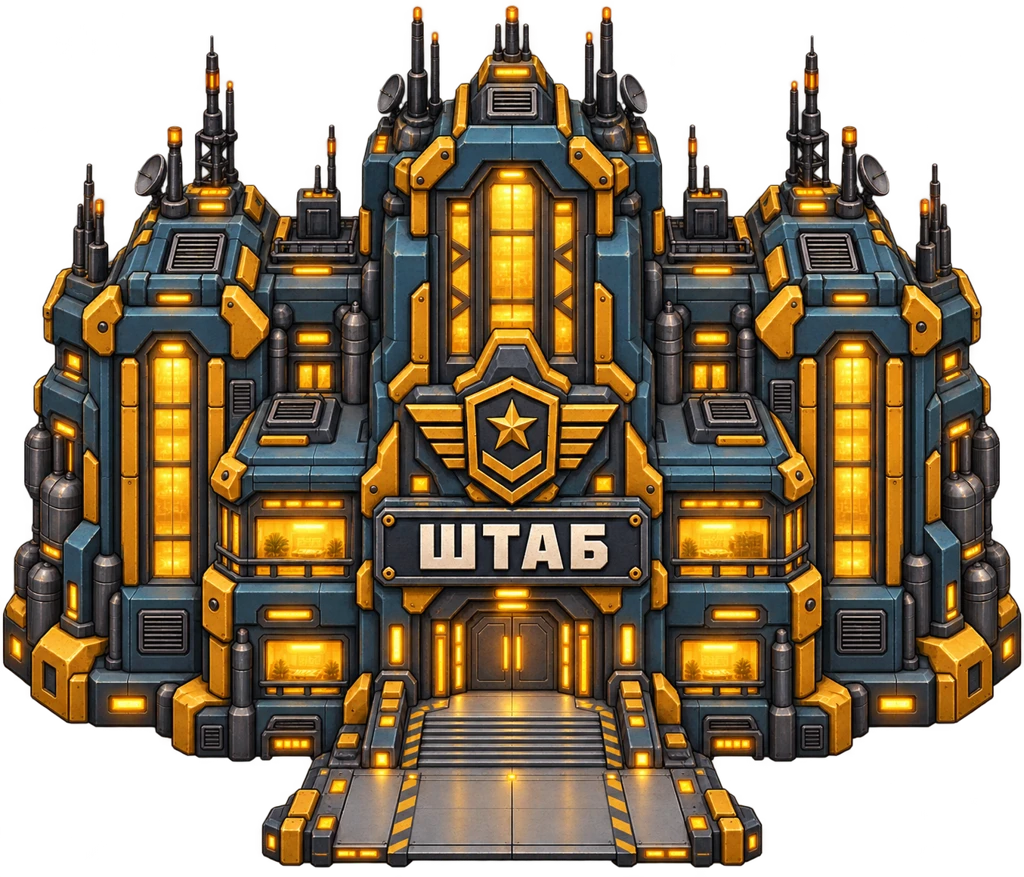
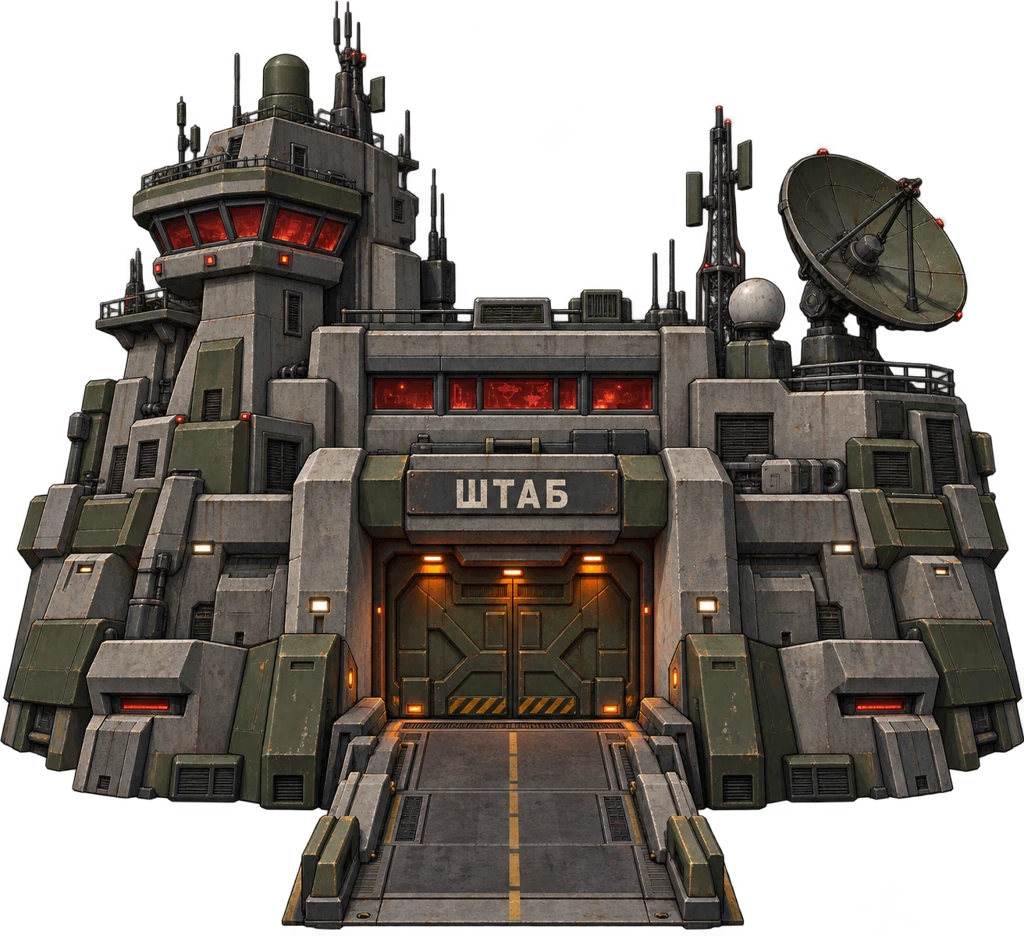
Redesign headquarters as military fortress and enclose rescue post with ten patrolling spiders

diff --git a/public/game.js b/public/game.js
@@ -1318,7 +1318,9 @@ class BaseWorld {
 
 const DEMYAN_SITE={x:35,y:31};
 const DEMYAN_ENTRANCE=[{x:32,y:29},{x:32,y:30},{x:32,y:31}];
-const DEMYAN_GUARDS=[{x:30,y:28},{x:30,y:30},{x:30,y:32},{x:28,y:29},{x:28,y:31},{x:26,y:28},{x:26,y:30},{x:26,y:32}];
+const DEMYAN_GUARDS=[{x:30,y:25},{x:34,y:25},{x:38,y:25},{x:40,y:27},{x:40,y:31},{x:40,y:36},{x:36,y:36},{x:32,y:36},{x:30,y:33},{x:30,y:29}];
+function demyanWall(x,y){return x>=32&&x<=38&&y>=27&&y<=34&&(x===32||x===38||y===27||y===34)&&!DEMYAN_ENTRANCE.some(p=>p.x===x&&p.y===y);}
+function demyanOpenCell(x,y){return (x>=33&&x<=37&&y>=28&&y<=33)||(x>=30&&x<=40&&y>=25&&y<=36&&(x<32||x>38||y<27||y>34));}
 const DEMYAN_STORIES=['demyanBrief','demyanContact','demyanEvac','demyanRescue','demyanReturn','hqReady'];
 const HQ_RECIPE={earth:100,stone:60,iron:10};
 const HQ_MS=15000;
@@ -1879,10 +1881,10 @@ class FloorWorld {
     if(!this.inside(this.x,this.y)||this.blocked(this.x,this.y)||liftGeometry(FLOOR_LIFT).colliders.some(rect=>circleHitsRect(px,py,rect))){this.x=25;this.y=7;}
   }
   inside(x,y){return x>=2&&y>=2&&x<48&&y<48;}
-  blocked(x,y){const item=this.floor===5?((x>=33&&x<=37&&y>=28&&y<=33)||DEMYAN_GUARDS.some(p=>p.x===x&&p.y===y)):this.floor===4?((x>=34&&x<=36&&y>=29&&y<=32)||BUILDER_GUARDS.some(p=>x===p.x&&y===p.y)):this.floor===3?((x===18&&y===34)||(x===36&&y===39)||[{x:25,y:12},{x:13,y:24},{x:38,y:24},{x:19,y:33},{x:35,y:38}].some(p=>Math.abs(x-p.x)<=1&&Math.abs(y-p.y)<=1)):this.floor===2?((x===17&&y===27)||(x===36&&y===35)):((x===18&&y===20)||(x===32&&y===29));return this.inside(x,y)&&!item&&!(x>=22&&x<=28&&y>=4&&y<=11)&&!this.cleared.has(y*BASE_SIZE+x);}
+  blocked(x,y){if(this.floor===5&&demyanWall(x,y))return true;const item=this.floor===5?demyanOpenCell(x,y):this.floor===4?((x>=34&&x<=36&&y>=29&&y<=32)||BUILDER_GUARDS.some(p=>x===p.x&&y===p.y)):this.floor===3?((x===18&&y===34)||(x===36&&y===39)||[{x:25,y:12},{x:13,y:24},{x:38,y:24},{x:19,y:33},{x:35,y:38}].some(p=>Math.abs(x-p.x)<=1&&Math.abs(y-p.y)<=1)):this.floor===2?((x===17&&y===27)||(x===36&&y===35)):((x===18&&y===20)||(x===32&&y===29));return this.inside(x,y)&&!item&&!(x>=22&&x<=28&&y>=4&&y<=11)&&!this.cleared.has(y*BASE_SIZE+x);}
   material(x,y){return this.materialOverrides.get(y*BASE_SIZE+x)||depositMaterial(this.materialSeed,this.floor,x,y);}
-  hardness(x,y){return this.material(x,y)==='earth'?1:2.5;}
-  drill(x,y,amount){if(!this.blocked(x,y))return false;const key=y*BASE_SIZE+x,next=(this.damage.get(key)||0)+amount/this.hardness(x,y);if(next>=1){this.cleared.add(key);this.damage.delete(key);return true;}this.damage.set(key,next);return false;}
+  hardness(x,y){if(this.floor===5&&demyanWall(x,y))return Infinity;return this.material(x,y)==='earth'?1:2.5;}
+  drill(x,y,amount){if(!Number.isFinite(this.hardness(x,y))||!this.blocked(x,y))return false;const key=y*BASE_SIZE+x,next=(this.damage.get(key)||0)+amount/this.hardness(x,y);if(next>=1){this.cleared.add(key);this.damage.delete(key);return true;}this.damage.set(key,next);return false;}
   canRescue(){return false;}
   snapshot(){return {location:'floor',floor:this.floor,materialSeed:this.materialSeed,materialGeneration:2,materialOverrides:[...this.materialOverrides],x:this.x,y:this.y,cleared:[...this.cleared],damage:[...this.damage]};}
 }
@@ -1972,12 +1974,12 @@ const STORY_LINES = {
     {speaker:'Серёга Т',text:'Демьян? Это ты?'},
     {speaker:'Демьян П.',text:'Тимофеич? Живой, значит. Хорошо. Сколько вас?'},
     {speaker:'Серёга Т',text:'Теперь несколько. Есть бур. Карта пятого этажа сохранилась — сейчас передам пилоту.'},
-    {speaker:'Демьян П.',text:'Тогда слушайте внимательно. Со мной трое. Есть раненые. Основной проход держу я. Пробейте боковой — с запада от поста.'}
+    {speaker:'Демьян П.',text:'Слушайте внимательно. Со мной трое, есть раненые. Мы внутри ограждения: стены усилены, бур их не возьмёт. Единственный вход слева, с запада — три разрушаемых блока. Они будут подсвечены. Вокруг патрулируют десять пауков. Уничтожь всех десятерых и разбей эти три блока, затем подай бур к проходу.'}
   ],
   demyanContact:[
-    {speaker:'Демьян П.',text:'Бур, вижу тебя! Западная стена — три пласта у входа. Убери завал, там обойдёшь их.'},
+    {speaker:'Демьян П.',text:'Бур, вижу тебя! Слева три подсвеченных блока — это единственный вход. Остальное ограждение нерушимое. Вокруг десять пауков: перебей всех и разбей три блока. Пока проход не открыт и хотя бы один паук жив, люди остаются внутри.'},
     {speaker:'Герой',text:'Долго здесь держишься?'},
-    {speaker:'Демьян П.',text:'Потом поговорим. За мной люди. Зачисти подходы и подай бур к проходу.'}
+    {speaker:'Демьян П.',text:'Потом поговорим. За мной люди. Уничтожь всех десятерых, открой проход и подай бур к нему. Сначала вывезем людей.'}
   ],
   demyanEvac:[
     {speaker:'Герой',text:'Проход открыт. Выходи!'},
@@ -1995,7 +1997,7 @@ const STORY_LINES = {
     {speaker:'Герой',text:'Думаешь, наверху можно жить?'},
     {speaker:'Демьян П.',text:'Думаю, пора это проверить. Только с пустыми руками мы туда не выйдем.'},
     {speaker:'Демьян П.',text:'Собери архитектора и Серёгу. Начнём со штаба — нужно понять, что у нас осталось и как добраться до верхних ворот.'},
-    {speaker:'Строительный мастер',text:'Чертёж штаба есть. Выбирай площадку пять на пять, расчищай и привози материалы. За стройку отвечаю я.'}
+    {speaker:'Строительный мастер',text:'Чертёж штаба есть. Выбирай площадку девять на восемь, расчищай и привози материалы. За стройку отвечаю я.'}
   ],
   hqReady:[
     {speaker:'Строительный мастер',text:'Штаб готов. Связь проверили, вход свободен. Демьян, принимай.'},
@@ -2376,7 +2378,7 @@ function queueRepairBrief(q,armory){
 const SPIDER_DIG_POWER=.5; // Temporary digging balance: soil takes two seconds.
 const SPIDER_WALK_COST=CELL/75;
 function spiderHardSolids(world,solid) {
- const hard=(x,y)=>solid(x,y)&&!world.blocked(x,y);
+ const hard=(x,y)=>solid(x,y)&&(!world.blocked(x,y)||!Number.isFinite(world.hardness?.(x,y)??1));
  hard.rectangles=solid.rectangles||[];return hard;
 }
 class TunnelHeap {
@@ -2491,7 +2493,7 @@ function moveEnemy(spider,target,dt,solid,speed=75) {
  }
  spider.angle=Math.atan2(dy,dx)*180/Math.PI+90;
 }
-function stepSpider(spider,rig,delta,solid,{tutorial=false,finite=false,safe=false,world=null,onDig=null}={}) {
+function stepSpider(spider,rig,delta,solid,{tutorial=false,finite=false,safe=false,world=null,onDig=null,patrol=null}={}) {
  const ms=Math.max(0,Math.min(delta,50)),dt=ms/1000;spider.digging=false;
  if(spider.hp<=0){
   if(tutorial||finite)return 0;
@@ -2503,7 +2505,16 @@ function stepSpider(spider,rig,delta,solid,{tutorial=false,finite=false,safe=fal
  }
  spider.bite=Math.max(0,spider.bite-ms);
  const distance=Math.hypot(rig.x-spider.x,rig.y-spider.y);
- if(!tutorial&&distance>SPIDER_AGGRO)return 0;
+ if(!tutorial&&distance>SPIDER_AGGRO){
+  if(patrol?.length){
+   if(!spider.patrolling){spider.path=[];spider.pathTime=0;}spider.patrolling=true;
+   if(!Number.isInteger(spider.patrolIndex))spider.patrolIndex=(spider.id+1)%patrol.length;
+   let target=center(patrol[spider.patrolIndex]);if(Math.hypot(target.x-spider.x,target.y-spider.y)<8){spider.patrolIndex=(spider.patrolIndex+1)%patrol.length;target=center(patrol[spider.patrolIndex]);spider.pathTime=0;}
+   if(clearWalk(spider,target,solid))moveEnemy(spider,target,dt,solid,55);
+   else{spider.pathTime-=ms;if(spider.pathTime<=0){spider.path=findPath(spider,target,solid);spider.pathTime=600;}while(spider.path?.length&&Math.hypot(spider.path[0].x-spider.x,spider.path[0].y-spider.y)<5)spider.path.shift();if(spider.path?.length)moveEnemy(spider,spider.path[0],dt,solid,55);}
+  }return 0;
+ }
+ if(spider.patrolling){spider.path=[];spider.pathTime=0;spider.patrolling=false;}
  if(safe)return 0;
  if(distance<=48&&clearShot(spider,rig,solid)){
   if(spider.bite===0){spider.bite=1000;return 1;}
@@ -2660,6 +2671,7 @@ const combatMethods={
   const texture=this.textures.get('spider'),source=texture.getSourceImage();
   for(let i=0;i<4;i++)if(!texture.has('walk-'+i))texture.add('walk-'+i,0,i*source.width/4,0,source.width/4,source.height);
   this.spiders=this.floorNumber===5?DEMYAN_GUARDS.map((site,id)=>restoreSpider(this.campaign.combat?.floor5?.find(s=>s.id===id),site,id)):this.floorNumber===4?BUILDER_GUARDS.map((site,id)=>restoreSpider(this.campaign.combat?.floor4?.find(s=>s.id===id),site,id)):this.floorNumber===3?createFloorSpiders(this.campaign.combat?.floor3):[];
+  if(this.floorNumber===5)for(const s of this.spiders)if(this.world.blocked(Math.floor(s.x/CELL),Math.floor(s.y/CELL))){s.x=s.homeX;s.y=s.homeY;}
   this.spiderViews=[];this.allies=[];this.combatShots=[];this.weaponCooldown=Number.isFinite(this.campaign.combat?.cooldown)?Math.max(0,Math.min(1000,this.campaign.combat.cooldown)):0;
   this.combatTime=0;this.combatReady=true;
   if(this.floorNumber===3||this.floorNumber===4||this.floorNumber===5)this.createSpiderViews();
@@ -2719,7 +2731,7 @@ const combatMethods={
   for(const s of this.spiders){
    // Base enemies belong only to the finite tutorial wave, never to floor respawns.
    if(!this.floorNumber&&!tutorial)continue;
-   const damage=stepSpider(s,this.rig,ms,solid,{tutorial,finite:this.floorNumber===4||this.floorNumber===5,safe,world:this.world,onDig:(x,y,broken,spider)=>this.showMonsterDig(x,y,broken,spider)});
+   const damage=stepSpider(s,this.rig,ms,solid,{tutorial,finite:this.floorNumber===4||this.floorNumber===5,safe,patrol:this.floorNumber===5?DEMYAN_GUARDS:null,world:this.world,onDig:(x,y,broken,spider)=>this.showMonsterDig(x,y,broken,spider)});
    if(damage){
     this.hull=Math.max(tutorial?1:0,this.hull-damage*(1-(this.collectionBuffs?.defense||0)));
     const indicator=document.querySelector('#combat-hull');indicator?.classList.add('hull-hit');this.time.delayedCall(180,()=>indicator?.classList.remove('hull-hit'));
@@ -3236,7 +3248,8 @@ const demyanMethods={
   if(this.floorNumber===5){
    const x=(DEMYAN_SITE.x+.5)*CELL,y=(DEMYAN_SITE.y+.5)*CELL,g=this.demyanArt;
    g.fillStyle(0x243c3b);g.fillRoundedRect(33*CELL,28*CELL,5*CELL,6*CELL,10);g.lineStyle(3,0x526860);g.strokeRect(33*CELL+8,28*CELL+8,5*CELL-16,6*CELL-16);
-   // The west side is the cleared-by-player rescue route; ruins are visual, not invisible walls.
+   // Reinforced enclosure is actual indestructible terrain, with one three-block west entrance.
+   for(let cy=27;cy<=34;cy++)for(let cx=32;cx<=38;cx++)if(demyanWall(cx,cy)){const bx=cx*CELL,by=cy*CELL;g.fillStyle(0x202e31);g.fillRect(bx,by,CELL,CELL);g.fillStyle(0x6b7775);g.fillRoundedRect(bx+3,by+3,CELL-6,CELL-9,4);g.lineStyle(3,0x9aa79e);g.strokeRect(bx+5,by+5,CELL-10,CELL-13);g.lineStyle(5,0x394b4e);g.lineBetween(bx+10,by+12,bx+CELL-10,by+CELL-15);g.lineBetween(bx+CELL-10,by+12,bx+10,by+CELL-15);}
    for(let i=0;i<7;i++){g.fillStyle(i%2?0x735746:0x8b7757);g.fillRoundedRect(33*CELL+16+i*37,32*CELL+28+(i%2)*8,32,26,4);}
    for(let i=0;i<35;i++){g.fillStyle(0xc39b50);g.fillRect(x-90+(i*47)%180,y-20+(i*29)%65,6,3);}
    g.fillStyle(0x19302e);g.fillRoundedRect(35*CELL,28*CELL+12,110,48,6);g.fillStyle(0x81b989);g.fillRect(35*CELL+14,28*CELL+22,70,22);
@@ -3307,7 +3320,7 @@ const demyanMethods={
   const q=this.demyanQuest;if(!q?.briefed||this.floorNumber&&this.floorNumber!==5)return;
   const name=document.querySelector('#quest-name'),radio=document.querySelector('#radio-text'),status=document.querySelector('#quest-status');
   name.textContent=q.returned?(q.hq?'Выход на поверхность':'Построить штаб'):'Последний рубеж';
-  if(this.floorNumber===5){radio.textContent=q.rescued?'Демьян и люди на борту. Вернись на базу.':q.evacuating?'Сначала люди. Демьян отходит последним. Подожди рядом с проходом.':'Демьян удерживает командный пост. Пробей боковой проход и уничтожь нападающих.';status.textContent=q.rescued?'Лифт · '+objectiveBearing(this.rig,FLOOR_LIFT):'Проход '+DEMYAN_ENTRANCE.filter(p=>!this.world.blocked(p.x,p.y)).length+'/3 · Пауки '+(this.spiders||[]).filter(s=>s.hp<=0).length+'/'+DEMYAN_GUARDS.length+' · Люди '+q.evacuated+'/3 · '+objectiveBearing(this.rig,DEMYAN_SITE);}
+  if(this.floorNumber===5){radio.textContent=q.rescued?'Демьян и люди на борту. Вернись на базу.':q.evacuating?'Сначала люди. Демьян отходит последним. Подожди рядом с проходом.':'Демьян удерживает командный пост. Разбей 3 подсвеченных блока слева и уничтожь всех 10 патрулирующих пауков.';status.textContent=q.rescued?'Лифт · '+objectiveBearing(this.rig,FLOOR_LIFT):'Проход '+DEMYAN_ENTRANCE.filter(p=>!this.world.blocked(p.x,p.y)).length+'/3 · Пауки '+(this.spiders||[]).filter(s=>s.hp<=0).length+'/'+DEMYAN_GUARDS.length+' · Люди '+q.evacuated+'/3 · '+objectiveBearing(this.rig,DEMYAN_SITE);}
   else{radio.textContent=q.returned?'Демьян П.: '+(q.hq?'Готовим экспедицию к верхним воротам. Сведения о поверхности ещё предстоит проверить.':'Нужен штаб. Получи чертёж у архитектора, выбери и расчисти площадку 9×8.'): 'Один человек несколько часов удерживает командный пост на пятом этаже. Серёга узнал Демьяна.';status.textContent=q.remaining!=null?'Строительство штаба · '+Math.ceil(q.remaining/1000)+' с':q.hq?'Штаб работает · Руководитель: Демьян П. · Спасены 3 человека':q.returned?'Дом архитектора · Штаб 9×8 · '+Object.entries(HQ_RECIPE).map(([id,n])=>(MATERIALS.find(m=>m.id===id)?.name||id)+' '+n).join(' · '):'Получена карта пятого этажа';}
  },
  headquartersError(q=this.demyanQuest){const geom=demyanGeometry(q);if(!geom)return 'Выбери место для штаба';const others=this.occupiedBuildingGeometries().filter(g=>g.kind!=='hq');const error=validateBuildingMove('hq',geom,this.world,others,this.rig);if(error)return error;const f=geom.footprint,buffer={x:f.x-2*CELL,y:f.y-2*CELL,width:f.width+4*CELL,height:f.height+4*CELL};if([...others.map(g=>g.footprint),ARCHITECT_FOOTPRINT].some(f=>rectanglesOverlap(buffer,f)))return 'Оставь проход шириной две клетки между зданиями';return null;},
@@ -4052,7 +4065,7 @@ class Base extends globalThis.Phaser.Scene {
     if(time-this.lastSave>1000)this.persist();
   }
   drawLiftGlow(time) {
-    this.blockGlow.clear();if(this.floorNumber||!this.world.rescued)return;
+    this.blockGlow.clear();if(this.floorNumber===5&&!this.demyanQuest.rescued){const pulse=.55+.25*Math.sin(time*.004);for(const p of DEMYAN_ENTRANCE)if(this.world.blocked(p.x,p.y)){this.blockGlow.fillStyle(0xffd66c,.18);this.blockGlow.fillRect(p.x*CELL,p.y*CELL,CELL,CELL);this.blockGlow.lineStyle(4,0xffe28b,pulse);this.blockGlow.strokeRect(p.x*CELL+3,p.y*CELL+3,CELL-6,CELL-6);}return;}if(this.floorNumber||!this.world.rescued)return;
     const blocks=this.repairQuest?.returnBriefed&&!this.repairQuest.ready?REPAIR_BLOCKS:this.armoryQuest?.returnBriefed&&!this.armoryQuest.ready?ARMORY_BLOCKS:this.workshopQuest?.returnBriefed&&!this.workshopQuest.ready?WORKSHOP_BLOCKS:this.liftReady()?(this.world.porodnikBriefed&&!this.world.porodnikPowered?PORODNIK_BLOCKS:[]):LIFT_BLOCKS;
     const pulse=.35+.15*Math.sin(time*.0035);
     for(const p of blocks)if(this.world.blocked(p.x,p.y)) {
@@ -4087,6 +4100,7 @@ class Base extends globalThis.Phaser.Scene {
     if(!this.floorNumber&&x===RESCUE.x&&y===RESCUE.y&&!this.world.rescued){this.refreshHUD();return;}
     if(this.world.blocked(x,y)) {
       this.cutting=true;
+      if(!Number.isFinite(this.world.hardness?.(x,y)??1)){this.sparkEmitter.emitParticleAt(middle(x),middle(y),2);return;}
       const key=y*BASE_SIZE+x;
       const material=this.world.material?.(x,y)||'earth';
       const broken=this.world.drill(x,y,dt*(1+this.workshopQuest.upgrades*.02+(this.collectionBuffs?.drill||0)));

diff --git a/src/demyan-scene.js b/src/demyan-scene.js
@@ -1,6 +1,6 @@
 import { readSettings } from './storage.js';
 import { ARCHITECT_FOOTPRINT } from './construction-state.js';
-import { DEMYAN_SITE, DEMYAN_ENTRANCE, DEMYAN_GUARDS, HQ_RECIPE, HQ_WIDTH, HQ_HEIGHT, demyanGeometry, canEvacuateDemyan, beginHeadquarters, stepHeadquarters } from './demyan-state.js';
+import { DEMYAN_SITE, DEMYAN_ENTRANCE, DEMYAN_GUARDS, demyanWall, HQ_RECIPE, HQ_WIDTH, HQ_HEIGHT, demyanGeometry, canEvacuateDemyan, beginHeadquarters, stepHeadquarters } from './demyan-state.js';
 import { CELL } from './base-state.js';
 import { makePerson, updatePerson } from './people-view.js';
 import { nearestTarget, findPath, moveEnemy } from './combat-state.js';
@@ -21,7 +21,8 @@ export const demyanMethods={
   if(this.floorNumber===5){
    const x=(DEMYAN_SITE.x+.5)*CELL,y=(DEMYAN_SITE.y+.5)*CELL,g=this.demyanArt;
    g.fillStyle(0x243c3b);g.fillRoundedRect(33*CELL,28*CELL,5*CELL,6*CELL,10);g.lineStyle(3,0x526860);g.strokeRect(33*CELL+8,28*CELL+8,5*CELL-16,6*CELL-16);
-   // The west side is the cleared-by-player rescue route; ruins are visual, not invisible walls.
+   // Reinforced enclosure is actual indestructible terrain, with one three-block west entrance.
+   for(let cy=27;cy<=34;cy++)for(let cx=32;cx<=38;cx++)if(demyanWall(cx,cy)){const bx=cx*CELL,by=cy*CELL;g.fillStyle(0x202e31);g.fillRect(bx,by,CELL,CELL);g.fillStyle(0x6b7775);g.fillRoundedRect(bx+3,by+3,CELL-6,CELL-9,4);g.lineStyle(3,0x9aa79e);g.strokeRect(bx+5,by+5,CELL-10,CELL-13);g.lineStyle(5,0x394b4e);g.lineBetween(bx+10,by+12,bx+CELL-10,by+CELL-15);g.lineBetween(bx+CELL-10,by+12,bx+10,by+CELL-15);}
    for(let i=0;i<7;i++){g.fillStyle(i%2?0x735746:0x8b7757);g.fillRoundedRect(33*CELL+16+i*37,32*CELL+28+(i%2)*8,32,26,4);}
    for(let i=0;i<35;i++){g.fillStyle(0xc39b50);g.fillRect(x-90+(i*47)%180,y-20+(i*29)%65,6,3);}
    g.fillStyle(0x19302e);g.fillRoundedRect(35*CELL,28*CELL+12,110,48,6);g.fillStyle(0x81b989);g.fillRect(35*CELL+14,28*CELL+22,70,22);
@@ -92,7 +93,7 @@ export const demyanMethods={
   const q=this.demyanQuest;if(!q?.briefed||this.floorNumber&&this.floorNumber!==5)return;
   const name=document.querySelector('#quest-name'),radio=document.querySelector('#radio-text'),status=document.querySelector('#quest-status');
   name.textContent=q.returned?(q.hq?'Выход на поверхность':'Построить штаб'):'Последний рубеж';
-  if(this.floorNumber===5){radio.textContent=q.rescued?'Демьян и люди на борту. Вернись на базу.':q.evacuating?'Сначала люди. Демьян отходит последним. Подожди рядом с проходом.':'Демьян удерживает командный пост. Пробей боковой проход и уничтожь нападающих.';status.textContent=q.rescued?'Лифт · '+objectiveBearing(this.rig,FLOOR_LIFT):'Проход '+DEMYAN_ENTRANCE.filter(p=>!this.world.blocked(p.x,p.y)).length+'/3 · Пауки '+(this.spiders||[]).filter(s=>s.hp<=0).length+'/'+DEMYAN_GUARDS.length+' · Люди '+q.evacuated+'/3 · '+objectiveBearing(this.rig,DEMYAN_SITE);}
+  if(this.floorNumber===5){radio.textContent=q.rescued?'Демьян и люди на борту. Вернись на базу.':q.evacuating?'Сначала люди. Демьян отходит последним. Подожди рядом с проходом.':'Демьян удерживает командный пост. Разбей 3 подсвеченных блока слева и уничтожь всех 10 патрулирующих пауков.';status.textContent=q.rescued?'Лифт · '+objectiveBearing(this.rig,FLOOR_LIFT):'Проход '+DEMYAN_ENTRANCE.filter(p=>!this.world.blocked(p.x,p.y)).length+'/3 · Пауки '+(this.spiders||[]).filter(s=>s.hp<=0).length+'/'+DEMYAN_GUARDS.length+' · Люди '+q.evacuated+'/3 · '+objectiveBearing(this.rig,DEMYAN_SITE);}
   else{radio.textContent=q.returned?'Демьян П.: '+(q.hq?'Готовим экспедицию к верхним воротам. Сведения о поверхности ещё предстоит проверить.':'Нужен штаб. Получи чертёж у архитектора, выбери и расчисти площадку 9×8.'): 'Один человек несколько часов удерживает командный пост на пятом этаже. Серёга узнал Демьяна.';status.textContent=q.remaining!=null?'Строительство штаба · '+Math.ceil(q.remaining/1000)+' с':q.hq?'Штаб работает · Руководитель: Демьян П. · Спасены 3 человека':q.returned?'Дом архитектора · Штаб 9×8 · '+Object.entries(HQ_RECIPE).map(([id,n])=>(MATERIALS.find(m=>m.id===id)?.name||id)+' '+n).join(' · '):'Получена карта пятого этажа';}
  },
  headquartersError(q=this.demyanQuest){const geom=demyanGeometry(q);if(!geom)return 'Выбери место для штаба';const others=this.occupiedBuildingGeometries().filter(g=>g.kind!=='hq');const error=validateBuildingMove('hq',geom,this.world,others,this.rig);if(error)return error;const f=geom.footprint,buffer={x:f.x-2*CELL,y:f.y-2*CELL,width:f.width+4*CELL,height:f.height+4*CELL};if([...others.map(g=>g.footprint),ARCHITECT_FOOTPRINT].some(f=>rectanglesOverlap(buffer,f)))return 'Оставь проход шириной две клетки между зданиями';return null;},

diff --git a/src/story-content.js b/src/story-content.js
@@ -7,12 +7,12 @@ export const STORY_LINES = {
     {speaker:'Серёга Т',text:'Демьян? Это ты?'},
     {speaker:'Демьян П.',text:'Тимофеич? Живой, значит. Хорошо. Сколько вас?'},
     {speaker:'Серёга Т',text:'Теперь несколько. Есть бур. Карта пятого этажа сохранилась — сейчас передам пилоту.'},
-    {speaker:'Демьян П.',text:'Тогда слушайте внимательно. Со мной трое. Есть раненые. Основной проход держу я. Пробейте боковой — с запада от поста.'}
+    {speaker:'Демьян П.',text:'Слушайте внимательно. Со мной трое, есть раненые. Мы внутри ограждения: стены усилены, бур их не возьмёт. Единственный вход слева, с запада — три разрушаемых блока. Они будут подсвечены. Вокруг патрулируют десять пауков. Уничтожь всех десятерых и разбей эти три блока, затем подай бур к проходу.'}
   ],
   demyanContact:[
-    {speaker:'Демьян П.',text:'Бур, вижу тебя! Западная стена — три пласта у входа. Убери завал, там обойдёшь их.'},
+    {speaker:'Демьян П.',text:'Бур, вижу тебя! Слева три подсвеченных блока — это единственный вход. Остальное ограждение нерушимое. Вокруг десять пауков: перебей всех и разбей три блока. Пока проход не открыт и хотя бы один паук жив, люди остаются внутри.'},
     {speaker:'Герой',text:'Долго здесь держишься?'},
-    {speaker:'Демьян П.',text:'Потом поговорим. За мной люди. Зачисти подходы и подай бур к проходу.'}
+    {speaker:'Демьян П.',text:'Потом поговорим. За мной люди. Уничтожь всех десятерых, открой проход и подай бур к нему. Сначала вывезем людей.'}
   ],
   demyanEvac:[
     {speaker:'Герой',text:'Проход открыт. Выходи!'},
@@ -30,7 +30,7 @@ export const STORY_LINES = {
     {speaker:'Герой',text:'Думаешь, наверху можно жить?'},
     {speaker:'Демьян П.',text:'Думаю, пора это проверить. Только с пустыми руками мы туда не выйдем.'},
     {speaker:'Демьян П.',text:'Собери архитектора и Серёгу. Начнём со штаба — нужно понять, что у нас осталось и как добраться до верхних ворот.'},
-    {speaker:'Строительный мастер',text:'Чертёж штаба есть. Выбирай площадку пять на пять, расчищай и привози материалы. За стройку отвечаю я.'}
+    {speaker:'Строительный мастер',text:'Чертёж штаба есть. Выбирай площадку девять на восемь, расчищай и привози материалы. За стройку отвечаю я.'}
   ],
   hqReady:[
     {speaker:'Строительный мастер',text:'Штаб готов. Связь проверили, вход свободен. Демьян, принимай.'},

diff --git a/src/lift-state.js b/src/lift-state.js
@@ -1,4 +1,4 @@
-import { DEMYAN_GUARDS } from './demyan-state.js';
+import { demyanWall, demyanOpenCell } from './demyan-state.js';
 import { BUILDER_SITE, BUILDER_GUARDS } from './construction-state.js';
 import { createMaterialSeed, validMaterialSeed, depositMaterial, legacyDepositMaterial, restoreMaterialOverrides } from './deposits.js';
 import { circleHitsRect } from './drive-controller.js';
@@ -63,10 +63,10 @@ export class FloorWorld {
     if(!this.inside(this.x,this.y)||this.blocked(this.x,this.y)||liftGeometry(FLOOR_LIFT).colliders.some(rect=>circleHitsRect(px,py,rect))){this.x=25;this.y=7;}
   }
   inside(x,y){return x>=2&&y>=2&&x<48&&y<48;}
-  blocked(x,y){const item=this.floor===5?((x>=33&&x<=37&&y>=28&&y<=33)||DEMYAN_GUARDS.some(p=>p.x===x&&p.y===y)):this.floor===4?((x>=34&&x<=36&&y>=29&&y<=32)||BUILDER_GUARDS.some(p=>x===p.x&&y===p.y)):this.floor===3?((x===18&&y===34)||(x===36&&y===39)||[{x:25,y:12},{x:13,y:24},{x:38,y:24},{x:19,y:33},{x:35,y:38}].some(p=>Math.abs(x-p.x)<=1&&Math.abs(y-p.y)<=1)):this.floor===2?((x===17&&y===27)||(x===36&&y===35)):((x===18&&y===20)||(x===32&&y===29));return this.inside(x,y)&&!item&&!(x>=22&&x<=28&&y>=4&&y<=11)&&!this.cleared.has(y*BASE_SIZE+x);}
+  blocked(x,y){if(this.floor===5&&demyanWall(x,y))return true;const item=this.floor===5?demyanOpenCell(x,y):this.floor===4?((x>=34&&x<=36&&y>=29&&y<=32)||BUILDER_GUARDS.some(p=>x===p.x&&y===p.y)):this.floor===3?((x===18&&y===34)||(x===36&&y===39)||[{x:25,y:12},{x:13,y:24},{x:38,y:24},{x:19,y:33},{x:35,y:38}].some(p=>Math.abs(x-p.x)<=1&&Math.abs(y-p.y)<=1)):this.floor===2?((x===17&&y===27)||(x===36&&y===35)):((x===18&&y===20)||(x===32&&y===29));return this.inside(x,y)&&!item&&!(x>=22&&x<=28&&y>=4&&y<=11)&&!this.cleared.has(y*BASE_SIZE+x);}
   material(x,y){return this.materialOverrides.get(y*BASE_SIZE+x)||depositMaterial(this.materialSeed,this.floor,x,y);}
-  hardness(x,y){return this.material(x,y)==='earth'?1:2.5;}
-  drill(x,y,amount){if(!this.blocked(x,y))return false;const key=y*BASE_SIZE+x,next=(this.damage.get(key)||0)+amount/this.hardness(x,y);if(next>=1){this.cleared.add(key);this.damage.delete(key);return true;}this.damage.set(key,next);return false;}
+  hardness(x,y){if(this.floor===5&&demyanWall(x,y))return Infinity;return this.material(x,y)==='earth'?1:2.5;}
+  drill(x,y,amount){if(!Number.isFinite(this.hardness(x,y))||!this.blocked(x,y))return false;const key=y*BASE_SIZE+x,next=(this.damage.get(key)||0)+amount/this.hardness(x,y);if(next>=1){this.cleared.add(key);this.damage.delete(key);return true;}this.damage.set(key,next);return false;}
   canRescue(){return false;}
   snapshot(){return {location:'floor',floor:this.floor,materialSeed:this.materialSeed,materialGeneration:2,materialOverrides:[...this.materialOverrides],x:this.x,y:this.y,cleared:[...this.cleared],damage:[...this.damage]};}
 }

diff --git a/tests/demyan-enclosure.test.js b/tests/demyan-enclosure.test.js
@@ -1,0 +1,25 @@
+import test from 'node:test';
+import assert from 'node:assert/strict';
+import { FloorWorld } from '../src/lift-state.js';
+import { CELL } from '../src/base-state.js';
+import { DEMYAN_GUARDS, DEMYAN_ENTRANCE, demyanWall, restoreDemyan, canEvacuateDemyan } from '../src/demyan-state.js';
+import { restoreSpider, stepSpider, findPath } from '../src/combat-state.js';
+import { spiderHardSolids } from '../src/tunnel-path.js';
+const point=(x,y)=>({x:(x+.5)*CELL,y:(y+.5)*CELL});
+test('reinforced rescue enclosure has only three drillable west gates, even after a legacy clear',()=>{
+ const world=new FloorWorld({},5),solid=(x,y)=>!world.inside(x,y)||world.blocked(x,y),inside=point(35,31),outside=point(31,30);
+ assert.deepEqual(findPath(outside,inside,solid),[]);let gates=0;
+ for(let y=27;y<=34;y++)for(let x=32;x<=38;x++)if(x===32||x===38||y===27||y===34){
+  if(demyanWall(x,y)){world.cleared.add(y*50+x);assert.equal(world.drill(x,y,100000),false);assert.equal(world.blocked(x,y),true);assert.equal(spiderHardSolids(world,solid)(x,y),true);}
+  else{gates++;assert.equal(DEMYAN_ENTRANCE.some(p=>p.x===x&&p.y===y),true);assert.equal(world.drill(x,y,100),true);}
+ }
+ assert.equal(gates,3);assert.ok(findPath(outside,inside,solid).length);
+ const restored=new FloorWorld(world.snapshot(),5);assert.equal(restored.blocked(38,30),true);assert.equal(restored.blocked(32,30),false);
+});
+test('ten finite spiders patrol outside the enclosure; evacuation requires every kill',()=>{
+ const world=new FloorWorld({},5),solid=(x,y)=>!world.inside(x,y)||world.blocked(x,y),rig=point(25,7),spiders=DEMYAN_GUARDS.map((p,id)=>restoreSpider(null,p,id));
+ assert.equal(spiders.length,10);
+ for(const s of spiders){const start={x:s.x,y:s.y};for(let i=0;i<40;i++)stepSpider(s,rig,50,solid,{world,finite:true,patrol:DEMYAN_GUARDS});assert.ok(Math.hypot(s.x-start.x,s.y-start.y)>20);assert.equal(world.blocked(Math.floor(s.x/CELL),Math.floor(s.y/CELL)),false);}
+ DEMYAN_ENTRANCE.forEach(p=>world.drill(p.x,p.y,100));const q=restoreDemyan({contact:true});spiders.forEach((s,i)=>s.hp=i===9?3:0);assert.equal(canEvacuateDemyan(q,world,spiders),false);spiders[9].hp=0;assert.equal(canEvacuateDemyan(q,world,spiders),true);
+ for(let i=0;i<400;i++)stepSpider(spiders[0],rig,50,solid,{world,finite:true,patrol:DEMYAN_GUARDS});assert.equal(spiders[0].hp,0);
+});

diff --git a/src/base-scene.js b/src/base-scene.js
@@ -2,7 +2,7 @@ import { bonusCacheMethods } from './bonus-cache-scene.js';
 import { restoreBonusCaches } from './bonus-cache-state.js';
 import { discoveryMethods } from './discovery-banner.js';
 import { demyanMethods } from './demyan-scene.js';
-import { restoreDemyan, DEMYAN_STORIES, demyanGeometry } from './demyan-state.js';
+import { restoreDemyan, DEMYAN_ENTRANCE, DEMYAN_STORIES, demyanGeometry } from './demyan-state.js';
 import { collectionMethods } from './collection-page.js';
 import { restoreClosedCollections, collectionBuffTotals } from './collection-state.js';
 import { artifactSceneMethods } from './artifact-scene.js';
@@ -568,7 +568,7 @@ export class Base extends globalThis.Phaser.Scene {
     if(time-this.lastSave>1000)this.persist();
   }
   drawLiftGlow(time) {
-    this.blockGlow.clear();if(this.floorNumber||!this.world.rescued)return;
+    this.blockGlow.clear();if(this.floorNumber===5&&!this.demyanQuest.rescued){const pulse=.55+.25*Math.sin(time*.004);for(const p of DEMYAN_ENTRANCE)if(this.world.blocked(p.x,p.y)){this.blockGlow.fillStyle(0xffd66c,.18);this.blockGlow.fillRect(p.x*CELL,p.y*CELL,CELL,CELL);this.blockGlow.lineStyle(4,0xffe28b,pulse);this.blockGlow.strokeRect(p.x*CELL+3,p.y*CELL+3,CELL-6,CELL-6);}return;}if(this.floorNumber||!this.world.rescued)return;
     const blocks=this.repairQuest?.returnBriefed&&!this.repairQuest.ready?REPAIR_BLOCKS:this.armoryQuest?.returnBriefed&&!this.armoryQuest.ready?ARMORY_BLOCKS:this.workshopQuest?.returnBriefed&&!this.workshopQuest.ready?WORKSHOP_BLOCKS:this.liftReady()?(this.world.porodnikBriefed&&!this.world.porodnikPowered?PORODNIK_BLOCKS:[]):LIFT_BLOCKS;
     const pulse=.35+.15*Math.sin(time*.0035);
     for(const p of blocks)if(this.world.blocked(p.x,p.y)) {
@@ -603,6 +603,7 @@ export class Base extends globalThis.Phaser.Scene {
     if(!this.floorNumber&&x===RESCUE.x&&y===RESCUE.y&&!this.world.rescued){this.refreshHUD();return;}
     if(this.world.blocked(x,y)) {
       this.cutting=true;
+      if(!Number.isFinite(this.world.hardness?.(x,y)??1)){this.sparkEmitter.emitParticleAt(middle(x),middle(y),2);return;}
       const key=y*BASE_SIZE+x;
       const material=this.world.material?.(x,y)||'earth';
       const broken=this.world.drill(x,y,dt*(1+this.workshopQuest.upgrades*.02+(this.collectionBuffs?.drill||0)));

diff --git a/src/combat-scene.js b/src/combat-scene.js
@@ -10,6 +10,7 @@ export const combatMethods={
   const texture=this.textures.get('spider'),source=texture.getSourceImage();
   for(let i=0;i<4;i++)if(!texture.has('walk-'+i))texture.add('walk-'+i,0,i*source.width/4,0,source.width/4,source.height);
   this.spiders=this.floorNumber===5?DEMYAN_GUARDS.map((site,id)=>restoreSpider(this.campaign.combat?.floor5?.find(s=>s.id===id),site,id)):this.floorNumber===4?BUILDER_GUARDS.map((site,id)=>restoreSpider(this.campaign.combat?.floor4?.find(s=>s.id===id),site,id)):this.floorNumber===3?createFloorSpiders(this.campaign.combat?.floor3):[];
+  if(this.floorNumber===5)for(const s of this.spiders)if(this.world.blocked(Math.floor(s.x/CELL),Math.floor(s.y/CELL))){s.x=s.homeX;s.y=s.homeY;}
   this.spiderViews=[];this.allies=[];this.combatShots=[];this.weaponCooldown=Number.isFinite(this.campaign.combat?.cooldown)?Math.max(0,Math.min(1000,this.campaign.combat.cooldown)):0;
   this.combatTime=0;this.combatReady=true;
   if(this.floorNumber===3||this.floorNumber===4||this.floorNumber===5)this.createSpiderViews();
@@ -69,7 +70,7 @@ export const combatMethods={
   for(const s of this.spiders){
    // Base enemies belong only to the finite tutorial wave, never to floor respawns.
    if(!this.floorNumber&&!tutorial)continue;
-   const damage=stepSpider(s,this.rig,ms,solid,{tutorial,finite:this.floorNumber===4||this.floorNumber===5,safe,world:this.world,onDig:(x,y,broken,spider)=>this.showMonsterDig(x,y,broken,spider)});
+   const damage=stepSpider(s,this.rig,ms,solid,{tutorial,finite:this.floorNumber===4||this.floorNumber===5,safe,patrol:this.floorNumber===5?DEMYAN_GUARDS:null,world:this.world,onDig:(x,y,broken,spider)=>this.showMonsterDig(x,y,broken,spider)});
    if(damage){
     this.hull=Math.max(tutorial?1:0,this.hull-damage*(1-(this.collectionBuffs?.defense||0)));
     const indicator=document.querySelector('#combat-hull');indicator?.classList.add('hull-hit');this.time.delayedCall(180,()=>indicator?.classList.remove('hull-hit'));

diff --git a/src/combat-state.js b/src/combat-state.js
@@ -58,7 +58,7 @@ export function moveEnemy(spider,target,dt,solid,speed=75) {
  }
  spider.angle=Math.atan2(dy,dx)*180/Math.PI+90;
 }
-export function stepSpider(spider,rig,delta,solid,{tutorial=false,finite=false,safe=false,world=null,onDig=null}={}) {
+export function stepSpider(spider,rig,delta,solid,{tutorial=false,finite=false,safe=false,world=null,onDig=null,patrol=null}={}) {
  const ms=Math.max(0,Math.min(delta,50)),dt=ms/1000;spider.digging=false;
  if(spider.hp<=0){
   if(tutorial||finite)return 0;
@@ -70,7 +70,16 @@ export function stepSpider(spider,rig,delta,solid,{tutorial=false,finite=false,s
  }
  spider.bite=Math.max(0,spider.bite-ms);
  const distance=Math.hypot(rig.x-spider.x,rig.y-spider.y);
- if(!tutorial&&distance>SPIDER_AGGRO)return 0;
+ if(!tutorial&&distance>SPIDER_AGGRO){
+  if(patrol?.length){
+   if(!spider.patrolling){spider.path=[];spider.pathTime=0;}spider.patrolling=true;
+   if(!Number.isInteger(spider.patrolIndex))spider.patrolIndex=(spider.id+1)%patrol.length;
+   let target=center(patrol[spider.patrolIndex]);if(Math.hypot(target.x-spider.x,target.y-spider.y)<8){spider.patrolIndex=(spider.patrolIndex+1)%patrol.length;target=center(patrol[spider.patrolIndex]);spider.pathTime=0;}
+   if(clearWalk(spider,target,solid))moveEnemy(spider,target,dt,solid,55);
+   else{spider.pathTime-=ms;if(spider.pathTime<=0){spider.path=findPath(spider,target,solid);spider.pathTime=600;}while(spider.path?.length&&Math.hypot(spider.path[0].x-spider.x,spider.path[0].y-spider.y)<5)spider.path.shift();if(spider.path?.length)moveEnemy(spider,spider.path[0],dt,solid,55);}
+  }return 0;
+ }
+ if(spider.patrolling){spider.path=[];spider.pathTime=0;spider.patrolling=false;}
  if(safe)return 0;
  if(distance<=48&&clearShot(spider,rig,solid)){
   if(spider.bite===0){spider.bite=1000;return 1;}

diff --git a/src/demyan-state.js b/src/demyan-state.js
@@ -1,7 +1,9 @@
 import { CELL } from './base-state.js';
 export const DEMYAN_SITE={x:35,y:31};
 export const DEMYAN_ENTRANCE=[{x:32,y:29},{x:32,y:30},{x:32,y:31}];
-export const DEMYAN_GUARDS=[{x:30,y:28},{x:30,y:30},{x:30,y:32},{x:28,y:29},{x:28,y:31},{x:26,y:28},{x:26,y:30},{x:26,y:32}];
+export const DEMYAN_GUARDS=[{x:30,y:25},{x:34,y:25},{x:38,y:25},{x:40,y:27},{x:40,y:31},{x:40,y:36},{x:36,y:36},{x:32,y:36},{x:30,y:33},{x:30,y:29}];
+export function demyanWall(x,y){return x>=32&&x<=38&&y>=27&&y<=34&&(x===32||x===38||y===27||y===34)&&!DEMYAN_ENTRANCE.some(p=>p.x===x&&p.y===y);}
+export function demyanOpenCell(x,y){return (x>=33&&x<=37&&y>=28&&y<=33)||(x>=30&&x<=40&&y>=25&&y<=36&&(x<32||x>38||y<27||y>34));}
 export const DEMYAN_STORIES=['demyanBrief','demyanContact','demyanEvac','demyanRescue','demyanReturn','hqReady'];
 export const HQ_RECIPE={earth:100,stone:60,iron:10};
 export const HQ_MS=15000;

diff --git a/src/tunnel-path.js b/src/tunnel-path.js
@@ -3,7 +3,7 @@ import { driveFits } from './drive-controller.js';
 export const SPIDER_DIG_POWER=.5; // Temporary digging balance: soil takes two seconds.
 const SPIDER_WALK_COST=CELL/75;
 export function spiderHardSolids(world,solid) {
- const hard=(x,y)=>solid(x,y)&&!world.blocked(x,y);
+ const hard=(x,y)=>solid(x,y)&&(!world.blocked(x,y)||!Number.isFinite(world.hardness?.(x,y)??1));
  hard.rectangles=solid.rectangles||[];return hard;
 }
 class TunnelHeap {

diff --git a/index.html b/index.html
@@ -22,5 +22,5 @@ window.addEventListener('error', function (event) {
   }
 }, true);
 </script>
-<script src="./public/vendor/phaser.min.js"></script><script src="./public/game.js?v=military-headquarters-37"></script>
+<script src="./public/vendor/phaser.min.js"></script><script src="./public/game.js?v=fortress-rescue-38"></script>
 </body></html>

diff --git a/docs/demyan-chapter.md b/docs/demyan-chapter.md
@@ -2,10 +2,10 @@
 
 После первого склада поступает сигнал с пятого этажа: Демьян П. несколько часов удерживает командный пост, прикрывая троих выживших. Серёга узнаёт его и передаёт карту. Демьян — начальник штаба и главный источник сюжетных поручений; Координатор остаётся персонажем радиосвязи.
 
-Игрок прокладывает боковой проход (три блока западнее поста), уничтожает нападающих и подаёт бур к проходу. Выжившие идут по расчищенному пути к буру; Демьян отходит последним. Сохранение хранит этап разговора, число эвакуированных и погибших врагов. На этом этаже сюжетные враги не возрождаются. После спасения возврат на базу обязателен.
+Люди находятся внутри замкнутого ограждения из нерушимых блоков. Единственный вход — три подсвеченных разрушаемых блока с запада. Игрок открывает этот проход, уничтожает всех десять патрулирующих пауков и подаёт бур к проходу. Выжившие идут по расчищенному пути к буру; Демьян отходит последним. Сохранение хранит этап разговора, число эвакуированных и погибших врагов. На этом этаже сюжетные враги не возрождаются. После спасения возврат на базу обязателен.
 
 На базе Демьян рассказывает о сохранившихся замерах наружных датчиков. Возникает подозрение, что поверхность снова пригодна для жизни; это ещё не установленный факт. Глобальная миссия — выйти на поверхность. Состав и количество предметов для верхней двери намеренно не определены: их предстоит придумать по сюжету.
 
 Первая задача Демьяна — построить штаб. Дом архитектора открывает строительство штаба: игрок отмечает площадку на карте, расчищает 72 клетки и оставляет проходы. Размер со входом 9×8, руководитель Демьян П. Нельзя строить поверх бура, зданий, входа и дома архитектора. Между зданиями оставляются две клетки. Выбранная площадка сохраняется и защищена от переноса других зданий на неё.
 
-Временный баланс прототипа: 8 пауков по стандартным параметрам; трое спасаемых; штаб стоит 100 земли, 60 камня, 10 железной руды, строится 15 секунд. Материалы суммируются из груза и склада и списываются один раз. Награды: эвакуация 200, возвращение 150, штаб 200 кредитов, однократно. Последующие жильё и электростанции упомянуты в диалоге; строительство этих зданий и следующая сюжетная глава пока не реализованы.
+Временный баланс прототипа: 10 патрулирующих пауков по стандартным параметрам; трое спасаемых; штаб стоит 100 земли, 60 камня, 10 железной руды, строится 15 секунд. Материалы суммируются из груза и склада и списываются один раз. Награды: эвакуация 200, возвращение 150, штаб 200 кредитов, однократно. Последующие жильё и электростанции упомянуты в диалоге; строительство этих зданий и следующая сюжетная глава пока не реализованы.
